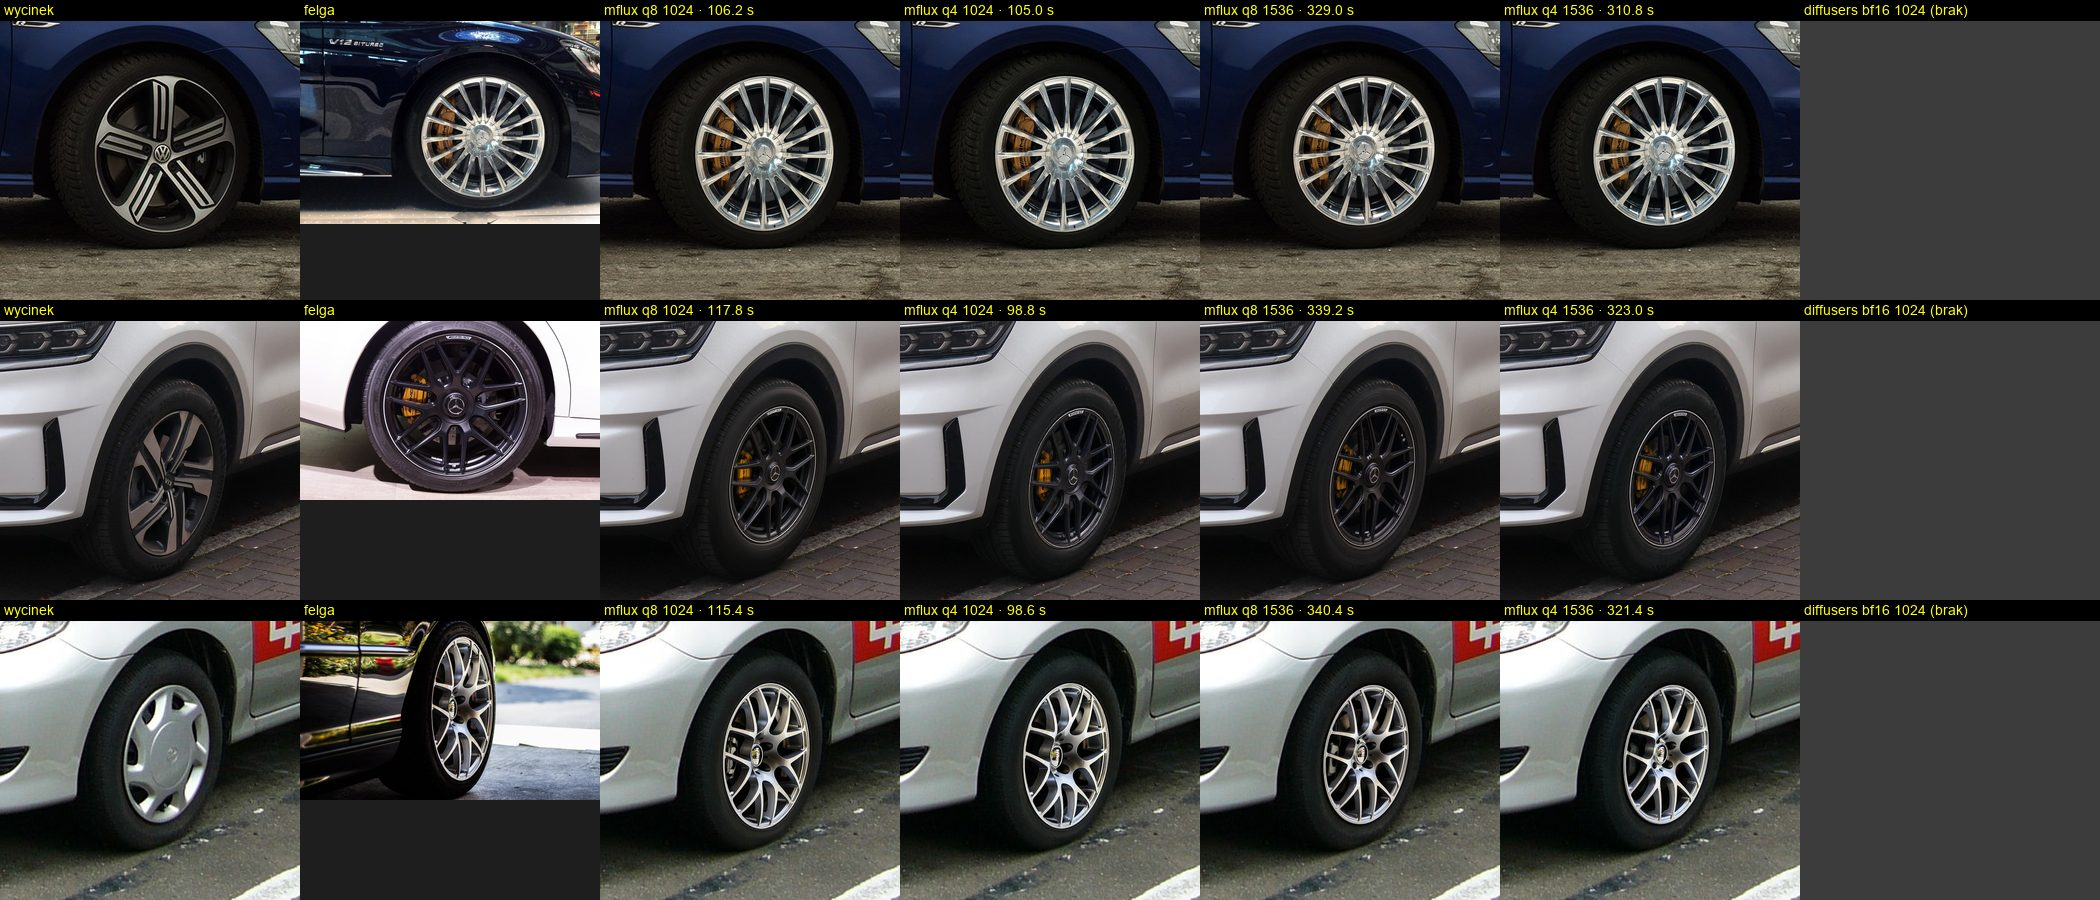
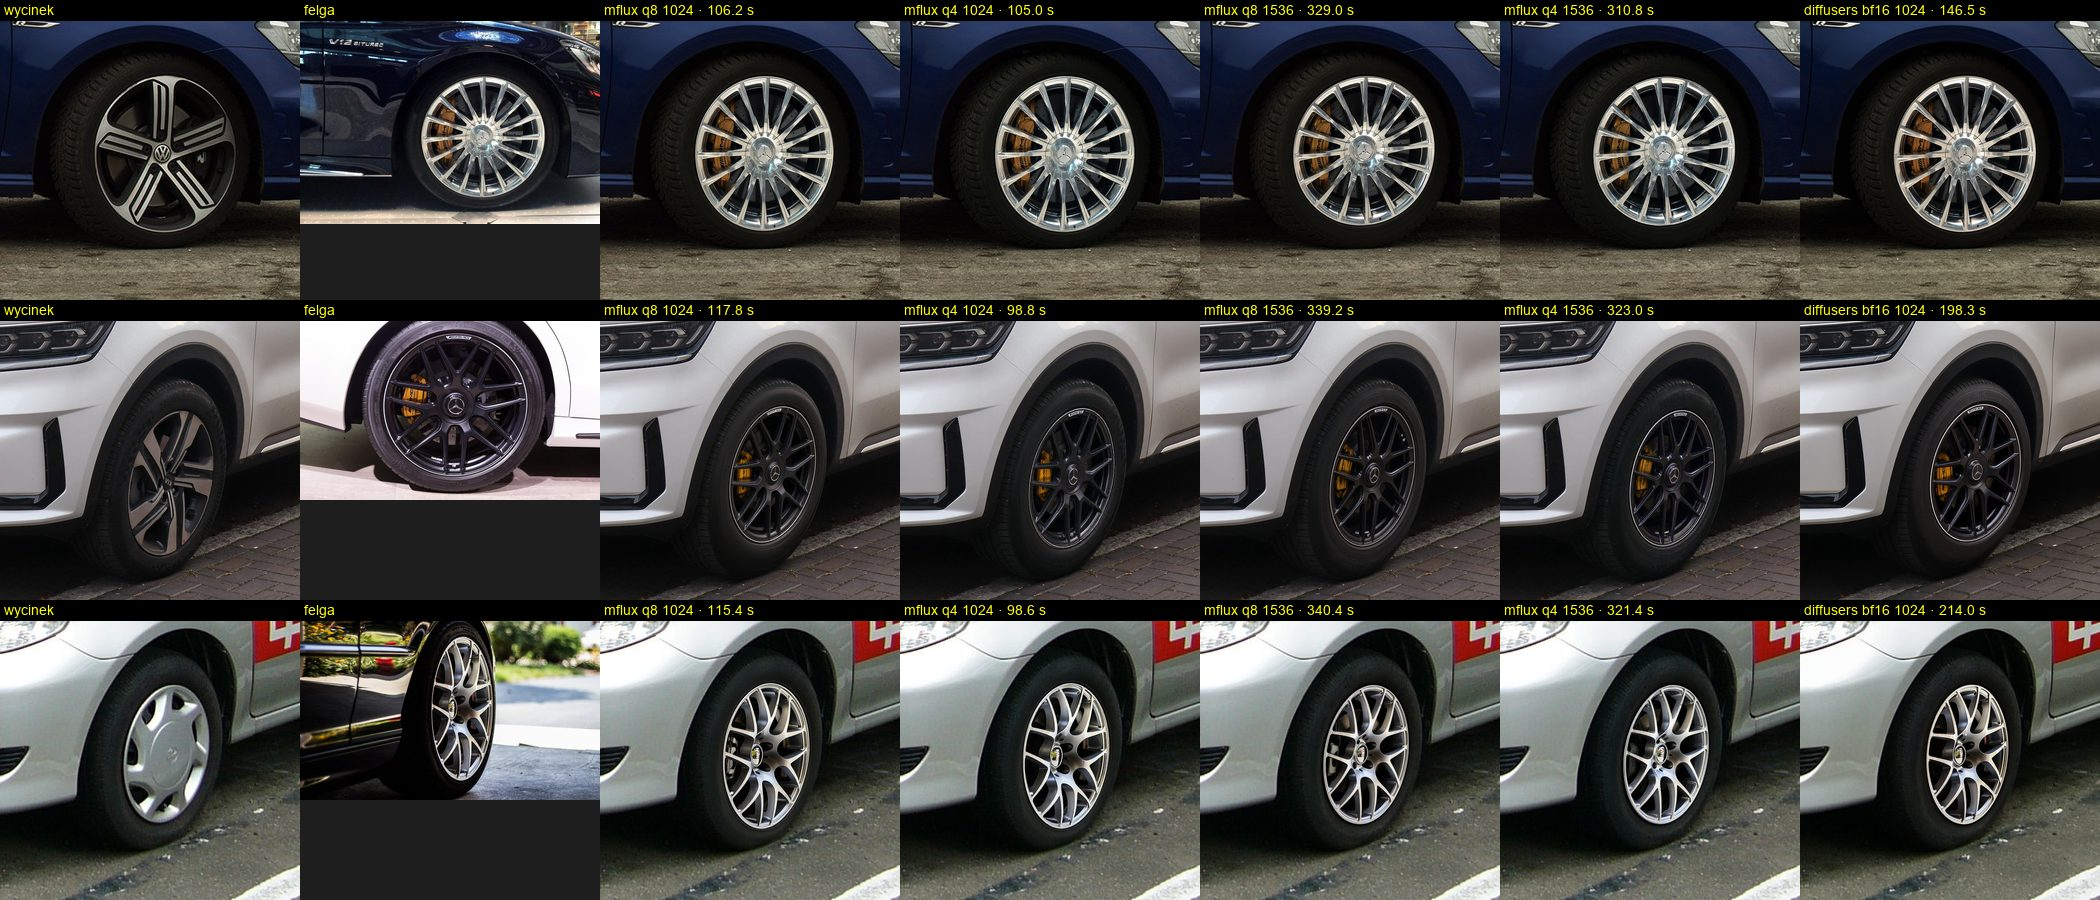
Ticket 01: wyniki spike'a (diffusers, warianty, klik SAM), raport i zamknięcie ticketu

Changed region(s): [[0.8357, 0.0, 1.0, 1.0]]

diff --git a/spike/scripts/sam_masks.py b/spike/scripts/sam_masks.py
@@ -75,8 +75,33 @@ def main() -> None:
                     best = out.iou_scores.argmax(dim=-1)
                     point_masks = processor.post_process_masks(out.pred_masks.cpu(), prompt["original_sizes"].cpu())[0]
                     entry["point_decode_s"] = round(time.perf_counter() - t0, 3)
+                    # Klik -> maska felgi (best IoU) -> box powiększony 1,5x wokół jej środka -> drugi prompt
+                    # box + ten sam punkt. Felga zajmuje ~2/3 średnicy koła, więc 1,5x obejmuje oponę.
+                    t0 = time.perf_counter()
+                    grown_boxes = []
+                    for i in range(len(boxes)):
+                        m = point_masks[i, int(best[0, i])].numpy()
+                        ys, xs = np.nonzero(m)
+                        cx, cy = (xs.min() + xs.max()) / 2, (ys.min() + ys.max()) / 2
+                        half = max(xs.max() - xs.min(), ys.max() - ys.min()) * 0.75
+                        grown_boxes.append([float(cx - half), float(cy - half), float(cx + half), float(cy + half)])
+                    prompt = processor(
+                        images=image, input_boxes=[grown_boxes], input_points=centers,
+                        input_labels=[[[1] for _ in boxes]], return_tensors="pt",
+                    ).to(DEVICE)
+                    out = model(
+                        image_embeddings=embeddings,
+                        input_boxes=prompt["input_boxes"],
+                        input_points=prompt["input_points"],
+                        input_labels=prompt["input_labels"],
+                        multimask_output=False,
+                    )
+                    click_masks = processor.post_process_masks(out.pred_masks.cpu(), prompt["original_sizes"].cpu())[0]
+                    entry["click_box_decode_s"] = round(time.perf_counter() - t0, 3)
             stem = Path(car).stem
             for i in range(len(boxes)):
+                cm = click_masks[i, 0].numpy().astype(np.uint8) * 255
+                Image.fromarray(cm).save(OUT / "masks" / f"{stem}_{i}_clickbox.png")
                 m = masks[i, 0].numpy().astype(np.uint8) * 255
                 Image.fromarray(m).save(OUT / "masks" / f"{stem}_{i}.png")
                 pm = point_masks[i, int(best[0, i])].numpy().astype(np.uint8) * 255

diff --git a/docs/spike/README.md b/docs/spike/README.md
@@ -69,7 +69,8 @@ Obserwacje:
   (~4,4 GB). Kolejne kroki liczą tylko 4096 tokenów celu.
 - **1536 px odpada**: 3× wolniej, q8 przekracza 32 GB (swap), a jakość na wycinku koła nie jest wyraźnie lepsza.
 - **Bez kafelkowego VAE** dekoder dokłada ~14 GB (szczyt 32,4 GB przy q8 1024, zmierzony swap do 11,7 GB).
-- **fp16 compute** (`compute_precision=mx.float16`, PR mflux #820): krok 8,8 s zamiast 12,1 s (q4) / ~15 s (q8).
+- **fp16 compute** (`compute_precision=mx.float16`, PR mflux #820): krok 8,8 s zamiast 12,1 s w bf16
+  (q8, z kafelkowym VAE). Bez kafelkowego VAE i bez limitu cache q8 w bf16 dochodziło do ~15 s na krok przez swap.
 - **Szczyt 26,9 GB przy q8 to dużo jak na 32 GB.** Z VM Podmana (2 GB) i przeglądarką mieści się, ale bez dużego
   zapasu. Jeśli w praktyce pojawi się swap, ustawienie q4 jest bezpiecznym zapasowym trybem (19 GB).
 
@@ -89,11 +90,34 @@ poza maską jest identyczny z oryginałem.
 
 ## Punkt odniesienia: diffusers bf16
 
-DIFFUSERS_PLACEHOLDER
+Ta sama edycja (te same wycinki, felgi, prompt, kolejność `[wycinek, felga]`, 1024 px, seed 42) w istniejącym
+pipeline'ie diffusers bf16 na MPS z `../image-gen-model-test` (dwuetapowe ładowanie i obejście `F.pad`).
+Diffusers nie ma maski, więc otoczenie koła chroni tylko nasza kompozycja. Skrypt:
+`spike/scripts/diffusers_baseline.py` (uruchamiany venv-em tamtego projektu, bez zmian w nim).
+
+| | diffusers bf16 (MPS) | mflux q8 (fp16 compute) |
+| --- | --- | --- |
+| Ładowanie | text encoder 16,8 s + transformer/VAE 8,9 s, przy każdej zmianie etapu | 4,4 s raz |
+| Kodowanie promptu z 2 obrazami | 7,7 s (pierwszy raz 22,8 s) | ~7 s |
+| Generowanie (8 kroków + VAE) | 147–214 s, 16–20 s na krok | ~92 s (30 s + 7 × 8,8 s) + ~11 s VAE |
+| Szczyt pamięci | 20,9 GB (etap 1), **36,9 GB** (etap 2, swap) | 26,9 GB |
+
+Jakość jest porównywalna (kolumna „diffusers” w `configs.jpg`, druga kolumna w `composite.jpg`). Różnice wynikają
+z innego generatora liczb losowych, a nie z jakości modelu. Diffusers nie mieści się w 32 GB przy dwóch
+referencjach (swap w etapie 2) i nie może trzymać całego modelu w pamięci między zadaniami. To potwierdza wybór mflux.
 
 ## Kolejność referencji i maska
 
-VARIANTS_PLACEHOLDER
+Q8, 1024 px, te same 3 koła i seed. Czasy prawie identyczne we wszystkich wariantach z fp16 (108–114 s na koło),
+różni się wynik:
+
+- **`[wycinek, felga]` + maska** (domyślne): felga podmieniona, otoczenie wycinka zachowane.
+- **`[wycinek, felga]` bez maski**: wynik prawie taki sam, ale model może też ruszyć nadkole i tło wycinka.
+  Ostatecznie i tak decyduje nasza kompozycja, więc maska mflux to głównie ochrona brzegów koła.
+- **`[felga, wycinek]` bez maski** (kolejność z pierwotnego DESIGN): **w 2 z 3 przypadków model oddał zdjęcie
+  felgi zamiast edytować wycinek** (Golf, Vios). Ta kolejność odpada.
+- **Obliczenia w bf16** zamiast fp16: brak widocznej różnicy jakości, ale krok 12,1 s zamiast 8,8 s
+  (całe koło ~143 s zamiast ~113 s).
 
 ![Warianty](img/variants.jpg)
 
@@ -144,7 +168,17 @@ także przy kole częściowo zasłoniętym. Detekcja + maski to razem poniżej 1
 
 ![Maski SAM](img/sam_masks.jpg)
 
-SAM_POINT_PLACEHOLDER
+**„Dodaj koło” jednym kliknięciem (ticket 04).** Symulowaliśmy klik w środek każdego wykrytego koła (8 kół,
+razem z kołem skutera) i porównaliśmy maskę z maską z boxa (IoU):
+
+| Sposób | IoU ≥ 0,95 | Typowy błąd |
+| --- | --- | --- |
+| punkt, `multimask_output=True`, najwyższe `iou_scores` | 2/8 | sama felga albo samo logo na kołpaku |
+| punkt, największa z 3 masek | 0/8 | całe auto |
+| **punkt → maska felgi → box 1,5× wokół niej → SAM z boxem i punktem** | **6/8** | klik w logo piasty (Golf), koło skutera |
+
+Zalecenie dla ticketu 04: dwustopniowy prompt (trzeci wiersz). Gdy pierwsza maska jest bardzo mała (np. samo logo),
+można powtórzyć z większym współczynnikiem albo uruchomić detektor na wycinku wokół kliknięcia.
 
 ## Szablon promptu
 

diff --git a/docs/tickets.md b/docs/tickets.md
@@ -17,15 +17,23 @@ Tickety to pionowe przekroje (tracer bullets) wynikające z [DESIGN.md](DESIGN.m
 
 **Blocked by:** None (can start immediately)
 
-**Status:** claimed
+**Status:** done
 
-- [ ] Przykładowe zdjęcia są w repo wraz ze źródłem i licencją każdego z nich
-- [ ] Wagi Qwen-Image-2.1-Turbo są skonwertowane do mflux q8 i q4 z lokalnego cache bf16
-- [ ] Zmierzone czasy i szczytowa pamięć dla kombinacji: q8 / q4 × 1024 / 1536 px, z rozbiciem na ładowanie modelu i generowanie
-- [ ] Ta sama edycja wykonana bazowym pipeline'em diffusers bf16 (dwuetapowe ładowanie z `image-gen-model-test`) jako punkt odniesienia
-- [ ] Porównanie Florence-2 i Grounding DINO pod kątem trafności i czasu wykrywania kół na zdjęciach przykładowych
-- [ ] Sprawdzone, czy siatka dokładnie 1024 px daje szum (porównanie z 992/1056)
-- [ ] Wyniki i obrazy porównawcze w raporcie, a wybrane ustawienia domyślne (kwantyzacja, rozdzielczość robocza, detektor, szablon promptu) dopisane do DESIGN.md
+- [x] Przykładowe zdjęcia są w repo wraz ze źródłem i licencją każdego z nich
+- [x] Wagi Qwen-Image-2.1-Turbo są skonwertowane do mflux q8 i q4 z lokalnego cache bf16
+- [x] Zmierzone czasy i szczytowa pamięć dla kombinacji: q8 / q4 × 1024 / 1536 px, z rozbiciem na ładowanie modelu i generowanie
+- [x] Ta sama edycja wykonana bazowym pipeline'em diffusers bf16 (dwuetapowe ładowanie z `image-gen-model-test`) jako punkt odniesienia
+- [x] Porównanie Florence-2 i Grounding DINO pod kątem trafności i czasu wykrywania kół na zdjęciach przykładowych
+- [x] Sprawdzone, czy siatka dokładnie 1024 px daje szum (porównanie z 992/1056)
+- [x] Wyniki i obrazy porównawcze w raporcie, a wybrane ustawienia domyślne (kwantyzacja, rozdzielczość robocza, detektor, szablon promptu) dopisane do DESIGN.md
+
+**Comments:**
+
+- 2026-10-16: Raport w `docs/spike/README.md`, kod w `spike/`. Ustawienia domyślne: mflux z gita (commit `b534021a`,
+  bo Turbo nie ma w wydanym 0.22.0), q8 + fp16 compute + kafelkowy VAE, 1024 px, `[wycinek, felga]` z maską,
+  Florence-2-large + SAM 2.1 large. Kolejność `[felga, wycinek]` z pierwotnego DESIGN w 2 z 3 przypadków zwracała
+  zdjęcie felgi, więc DESIGN poprawiony. Kod wycinania i kompozycji (`spike/src/wheeler_spike/wheel_crop.py`,
+  z testami) do przeniesienia w tickecie 03.
 
 ---
 
